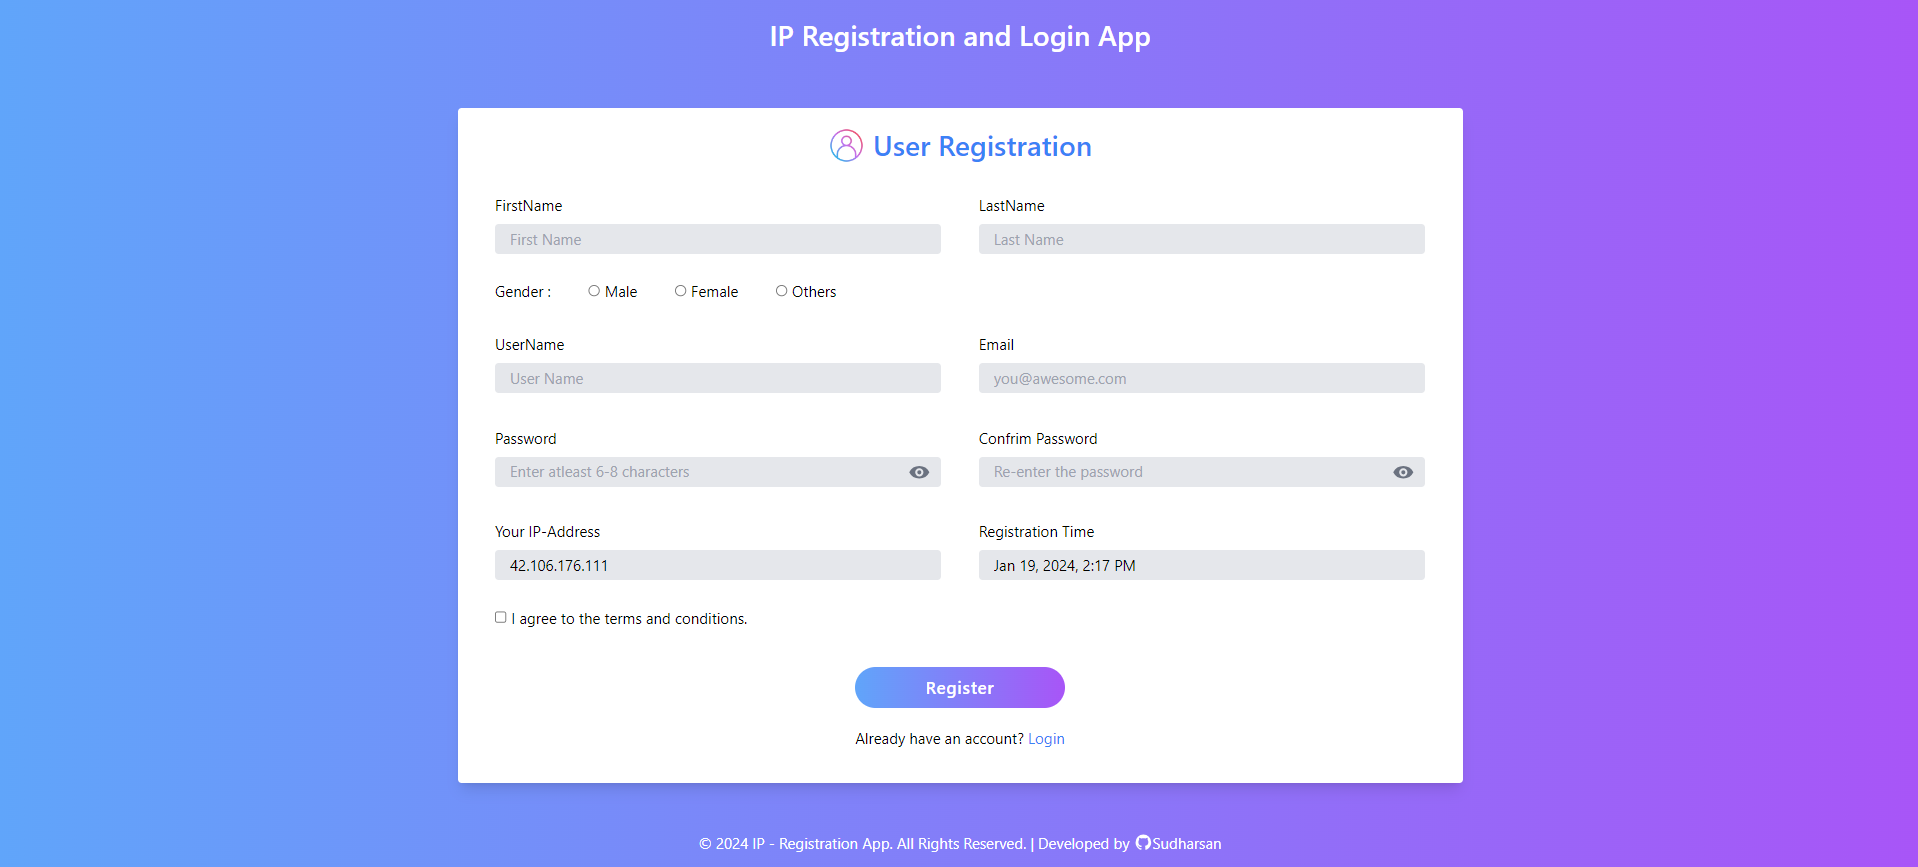
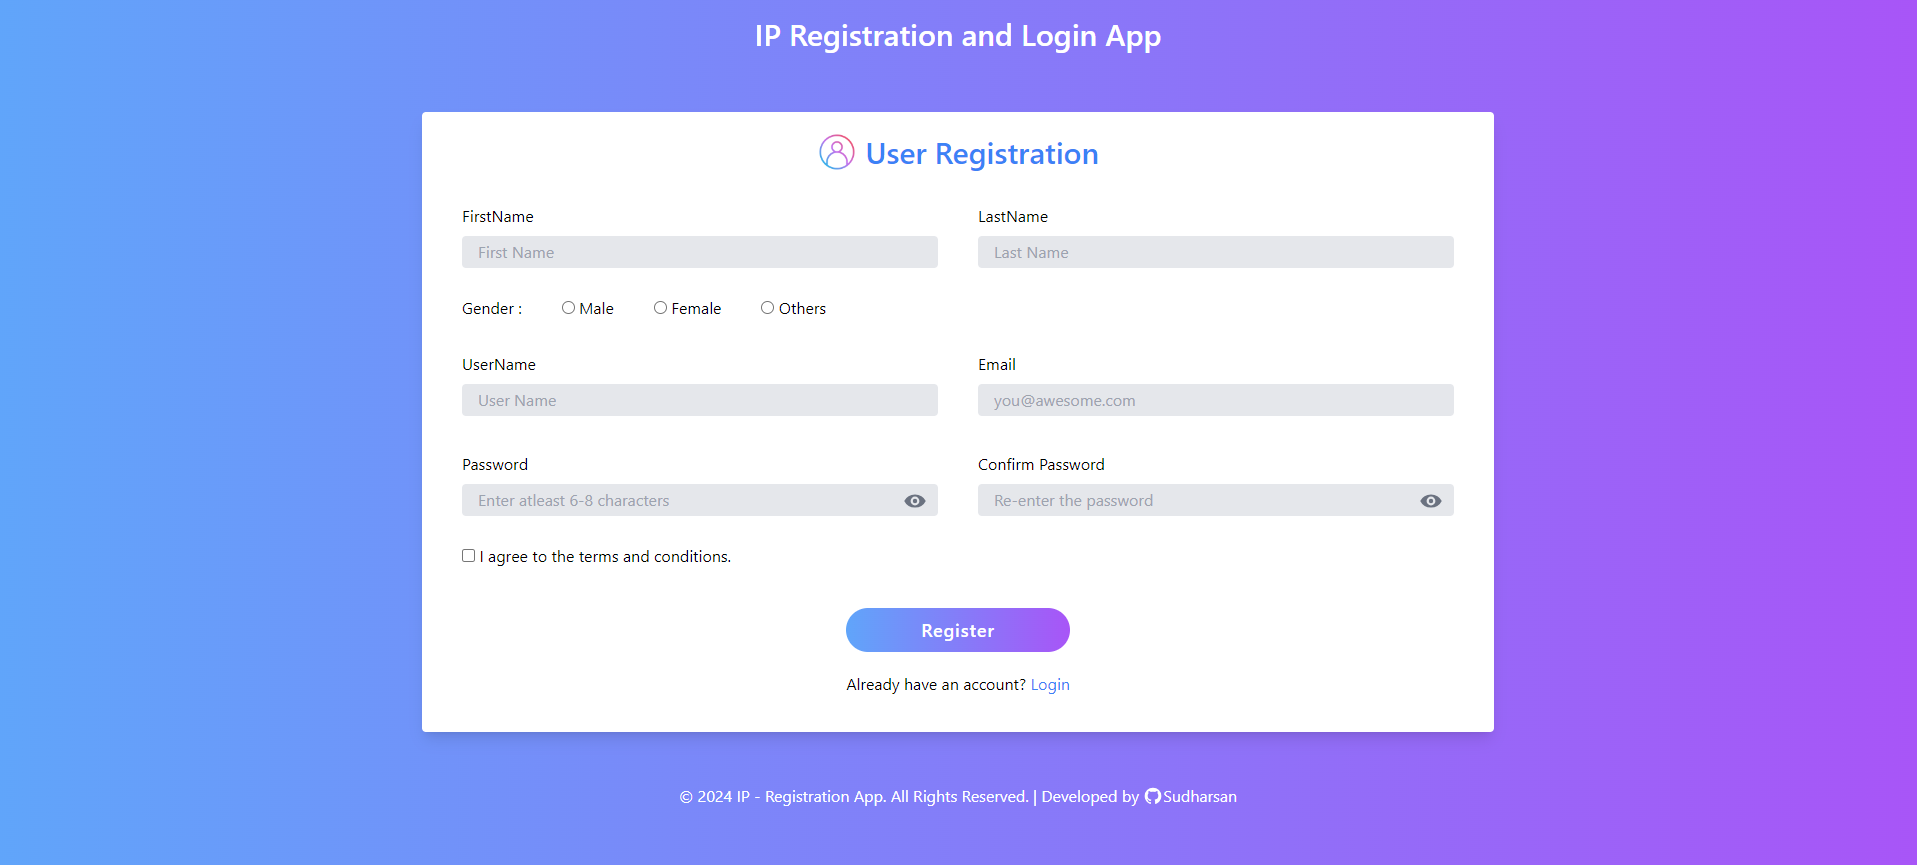
fix: some ui changes

Changed region(s): [[0.2154, 0.1249, 0.8002, 0.9364], [0.3693, 0.9676, 0.6463, 0.9988], [0.4001, 0.0312, 0.6155, 0.0624]]

diff --git a/javascript/02-javascript-DOM/09-ip-register-app/assets/js/userData.js b/javascript/02-javascript-DOM/09-ip-register-app/assets/js/userData.js
@@ -7,6 +7,16 @@ const userData = storedUserData ? JSON.parse(storedUserData) : [];
 
 console.log("userData", userData);
 
+const userDetailsTableEl = document.querySelector("#userDetailsTable");
+
+if (userData.length === 0) {
+  const noDataFoundImg = document.querySelector("#noDataFoundImg");
+  noDataFoundImg.classList.remove("hidden");
+  userDetailsTableEl.classList.add("hidden");
+} else {
+  userDetailsTableEl.classList.remove("hidden");
+}
+
 function getUserData() {
   const tableEl = document.querySelector("#userDataTable");
   tableEl.innerHTML = "";
@@ -23,7 +33,7 @@ function getUserData() {
       const userNameEl = document.createElement("td");
       const emailEl = document.createElement("td");
       const ipAddressEl = document.createElement("td");
-      const registeredTimeEl = document.createElement("td");
+      const loginTimeEl = document.createElement("td");
       const td6El = document.createElement("td");
       const deleteBtnEl = document.createElement("button");
 
@@ -60,12 +70,37 @@ function getUserData() {
       emailEl.classList.add("px-3", "py-2", "border", "break-words");
       emailEl.textContent = userDetails.email;
 
+      // IP - Address
+      let xhr = new XMLHttpRequest();
+      xhr.onreadystatechange = function () {
+        if (this.readyState === 4 && this.status === 200) {
+          const cleanedIpAddress = xhr.responseText.trim();
+          ipAddressEl.textContent = cleanedIpAddress;
+        }
+      };
+      xhr.open("GET", "https://ipv4.icanhazip.com/");
+      xhr.send();
       ipAddressEl.classList.add("px-3", "py-2", "border", "break-words");
-      ipAddressEl.textContent = userDetails.ipAddress;
 
-      registeredTimeEl.classList.add("px-3", "py-2", "border", "break-words");
-      registeredTimeEl.textContent = userDetails.dateAndTime;
+      // Login Time
+      const dateAndTime = document.querySelector("#time");
+      const newDate = new Date();
+      const neededFormat = {
+        year: "numeric",
+        month: "short",
+        day: "numeric",
+        hour: "numeric",
+        minute: "numeric",
+        hour12: true,
+      };
+      const formattedDateAndTime = newDate.toLocaleString(
+        "en-US",
+        neededFormat
+      );
+      loginTimeEl.classList.add("px-3", "py-2", "border", "break-words");
+      loginTimeEl.textContent = formattedDateAndTime;
 
+      // Delete Btn
       const deleteIcon = `<svg
           xmlns="http://www.w3.org/2000/svg"
           width="30"
@@ -93,7 +128,7 @@ function getUserData() {
         userNameEl,
         emailEl,
         ipAddressEl,
-        registeredTimeEl,
+        loginTimeEl,
         td6El
       );
 

diff --git a/javascript/02-javascript-DOM/09-ip-register-app/assets/js/main.js b/javascript/02-javascript-DOM/09-ip-register-app/assets/js/main.js
@@ -187,46 +187,12 @@ validateForm.addField(
   }
 );
 
-// IP - Address
-const ipAddressPlaceholder = document.getElementById("ipaddress");
-
-let xhr = new XMLHttpRequest();
-
-xhr.onreadystatechange = function () {
-  if (this.readyState === 4 && this.status === 200) {
-    const cleanedIpAddress = xhr.responseText.trim();
-    ipAddressPlaceholder.value = cleanedIpAddress;
-  }
-};
-
-xhr.open("GET", "https://ipv4.icanhazip.com/");
-xhr.send();
-
-// Time
-const dateAndTime = document.querySelector("#time");
-
-const newDate = new Date();
-
-const neededFormat = {
-  year: "numeric",
-  month: "short",
-  day: "numeric",
-  hour: "numeric",
-  minute: "numeric",
-  hour12: true,
-};
-const formattedDateAndTime = newDate.toLocaleString("en-US", neededFormat);
-
-dateAndTime.value = formattedDateAndTime;
-
 // Validations
 validateForm.onSuccess(() => {
   const formData = new FormData(formEl);
 
   // Pushing the id, dataAndTime and IpAddress into the form
   formData.append("id", uuidv4());
-  formData.append("dateAndTime", dateAndTime.value);
-  formData.append("ipAddress", ipAddressPlaceholder.value);
 
   const formValueObj = Object.fromEntries(formData.entries());
 
@@ -245,7 +211,9 @@ validateForm.onSuccess(() => {
     localStorage.setItem(localStorageKey, JSON.stringify(newUser));
   }
 
-  alert("You have Registered successfully!");
+  const firstname = document.querySelector("#firstname");
+
+  alert(`Hey ${firstname.value}, You have Registered successfully!`);
   window.location.href = "./login.html";
 
   formEl.reset();

diff --git a/javascript/02-javascript-DOM/09-ip-register-app/userData.html b/javascript/02-javascript-DOM/09-ip-register-app/userData.html
@@ -37,10 +37,18 @@
     <main class="max-w-8xl mx-auto">
       <div
         class="mx-2 my-10 p-5 space-y-3 lg:mx-24 lg:my-14 lg:p-10 lg:space-y-6 md:mx-4 md:p-6 bg-gray-50 rounded shadow-lg"
-        id="userDetailsTable"
       >
+        <div class="flex justify-center">
+          <img
+            src="./public/images/noDataFound.png"
+            alt="noDataFoundImg"
+            class="hidden"
+            id="noDataFoundImg"
+          />
+        </div>
+
         <div id="welcomeMessage"></div>
-        <div class="overflow-auto rounded">
+        <div class="overflow-auto rounded" id="userDetailsTable">
           <table class="table lg:table-fixed border w-full text-center">
             <tr>
               <th class="px-3 py-2 border tracking-wide w-14">S.No</th>
@@ -48,7 +56,7 @@
               <th class="px-3 py-2 border tracking-wide">UserName</th>
               <th class="px-3 py-2 border tracking-wide">Email ID</th>
               <th class="px-3 py-2 border tracking-wide">IP Address</th>
-              <th class="px-3 py-2 border tracking-wide">Registered Time</th>
+              <th class="px-3 py-2 border tracking-wide">Login Time</th>
               <th class="px-2 py-1 border tracking-wide w-20"></th>
             </tr>
             <tbody id="userDataTable"></tbody>

diff --git a/javascript/02-javascript-DOM/09-ip-register-app/index.html b/javascript/02-javascript-DOM/09-ip-register-app/index.html
@@ -223,34 +223,6 @@
               </svg>
             </div>
           </div>
-
-          <div>
-            <label for="ipaddress"
-              >Your IP-Address
-              <input
-                type="text"
-                placeholder="IP - Address"
-                id="ipaddress"
-                name="ipaddress"
-                disabled
-                class="outline-none w-full my-2 px-4 py-1 bg-gray-200 rounded focus:border focus:border-violet-500"
-              />
-            </label>
-          </div>
-
-          <div>
-            <label for="time"
-              >Registration Time
-              <input
-                type="text"
-                placeholder="DD-MM-YYYY HH:mm"
-                id="time"
-                name="time"
-                disabled
-                class="outline-none w-full my-2 px-4 py-1 bg-gray-200 rounded focus:border focus:border-violet-500"
-              />
-            </label>
-          </div>
         </div>
 
         <!-- Terms and Conditions -->
